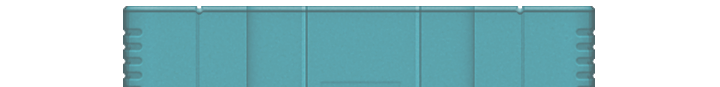
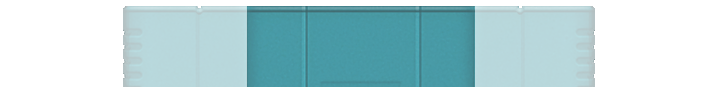
SGB2 band: back and front layers together as see-through as the face, colours matched to the zoomed face
Claude-Session: https://claude.ai/code/session_01WiBJS36a4oYsR1ZygWCf4H

diff --git a/tools/sgb/sgb_band_match.py b/tools/sgb/sgb_band_match.py
@@ -10,7 +10,7 @@ GEOM = {'pal': (123, 472, 448), 'sfc': (123, 472, 448), 'sgb2': (123, 472, 448),
 for m, (x, w, h) in GEOM.items():
     face = Image.open(f'assets/sgb_face_{m}.png').convert('RGBA').resize((w, h), Image.Resampling.BICUBIC)
     Fb = np.asarray(face).astype(np.float32)
-    for part in ('back', 'front'):
+    for part in ('front', 'back'):
         B = np.asarray(Image.open(f'assets/sgb_band_{m}_{part}.png').convert('RGBA')).astype(np.float32)
         F = np.zeros_like(B)
         F[6:87, x:x + w] = Fb[0:81]
@@ -27,5 +27,14 @@ for m, (x, w, h) in GEOM.items():
             out[..., k] = np.where(both, v, B[..., k])
         # a clear shell lets as much through zoomed as on the shelf
         out[..., 3] = np.where(both, np.minimum(B[..., 3], F[..., 3]), B[..., 3])
+        if m == 'sgb2':
+            # The clear band is drawn as two layers, back and front. Together they must let
+            # through just what the face does, or the band fades in thicker (Roy 2026-10-30).
+            if part == 'front':
+                front_a = out[..., 3] / 255
+            else:
+                fa = F[..., 3] / 255
+                want = 1 - (1 - fa) / np.maximum(1 - front_a, 1e-3)
+                out[..., 3] = np.where(both, np.clip(want, 0, 1) * 255, B[..., 3])
         Image.fromarray(np.clip(out, 0, 255).round().astype(np.uint8), 'RGBA').save(f'{OUT}/sgb_band_{m}_{part}.png', optimize=True)
     print(m)
